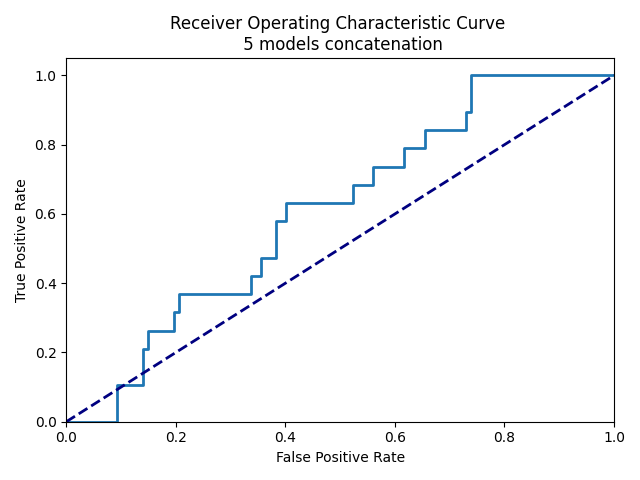
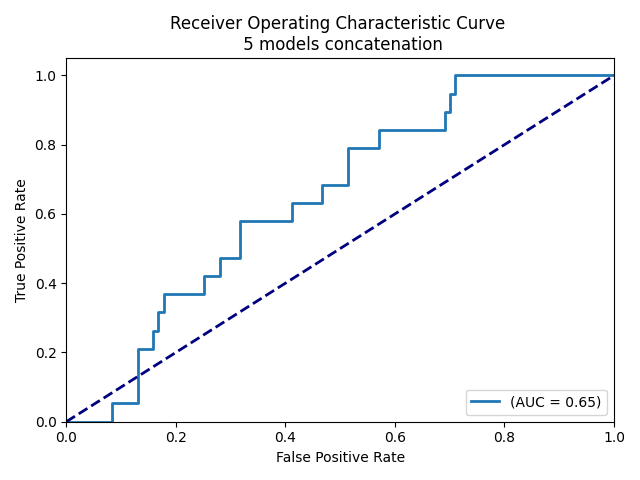
tests

diff --git a/main_iterations.py b/main_iterations.py
@@ -18,7 +18,7 @@ auc_values = []
 training_accuracy_values = []
 validation_accuracy_values = []
 lw = 2 #line width
-nb_iterations = 10
+nb_iterations = 20
 results = []
 
 df = dataloader.load_data(target_output=configs.target_output)
@@ -142,6 +142,7 @@ plt.ylim([0.0, 1.05])
 plt.xlabel('False Positive Rate')
 plt.ylabel('True Positive Rate')
 plt.title(f'Receiver Operating Characteristic Curve \n 5 models concatenation')
+plt.legend(loc="lower right")
 plt.tight_layout()
 plt.savefig(f"{configs.DIR}/results/auc roc 5-model ensemble.png") 
 plt.close()
